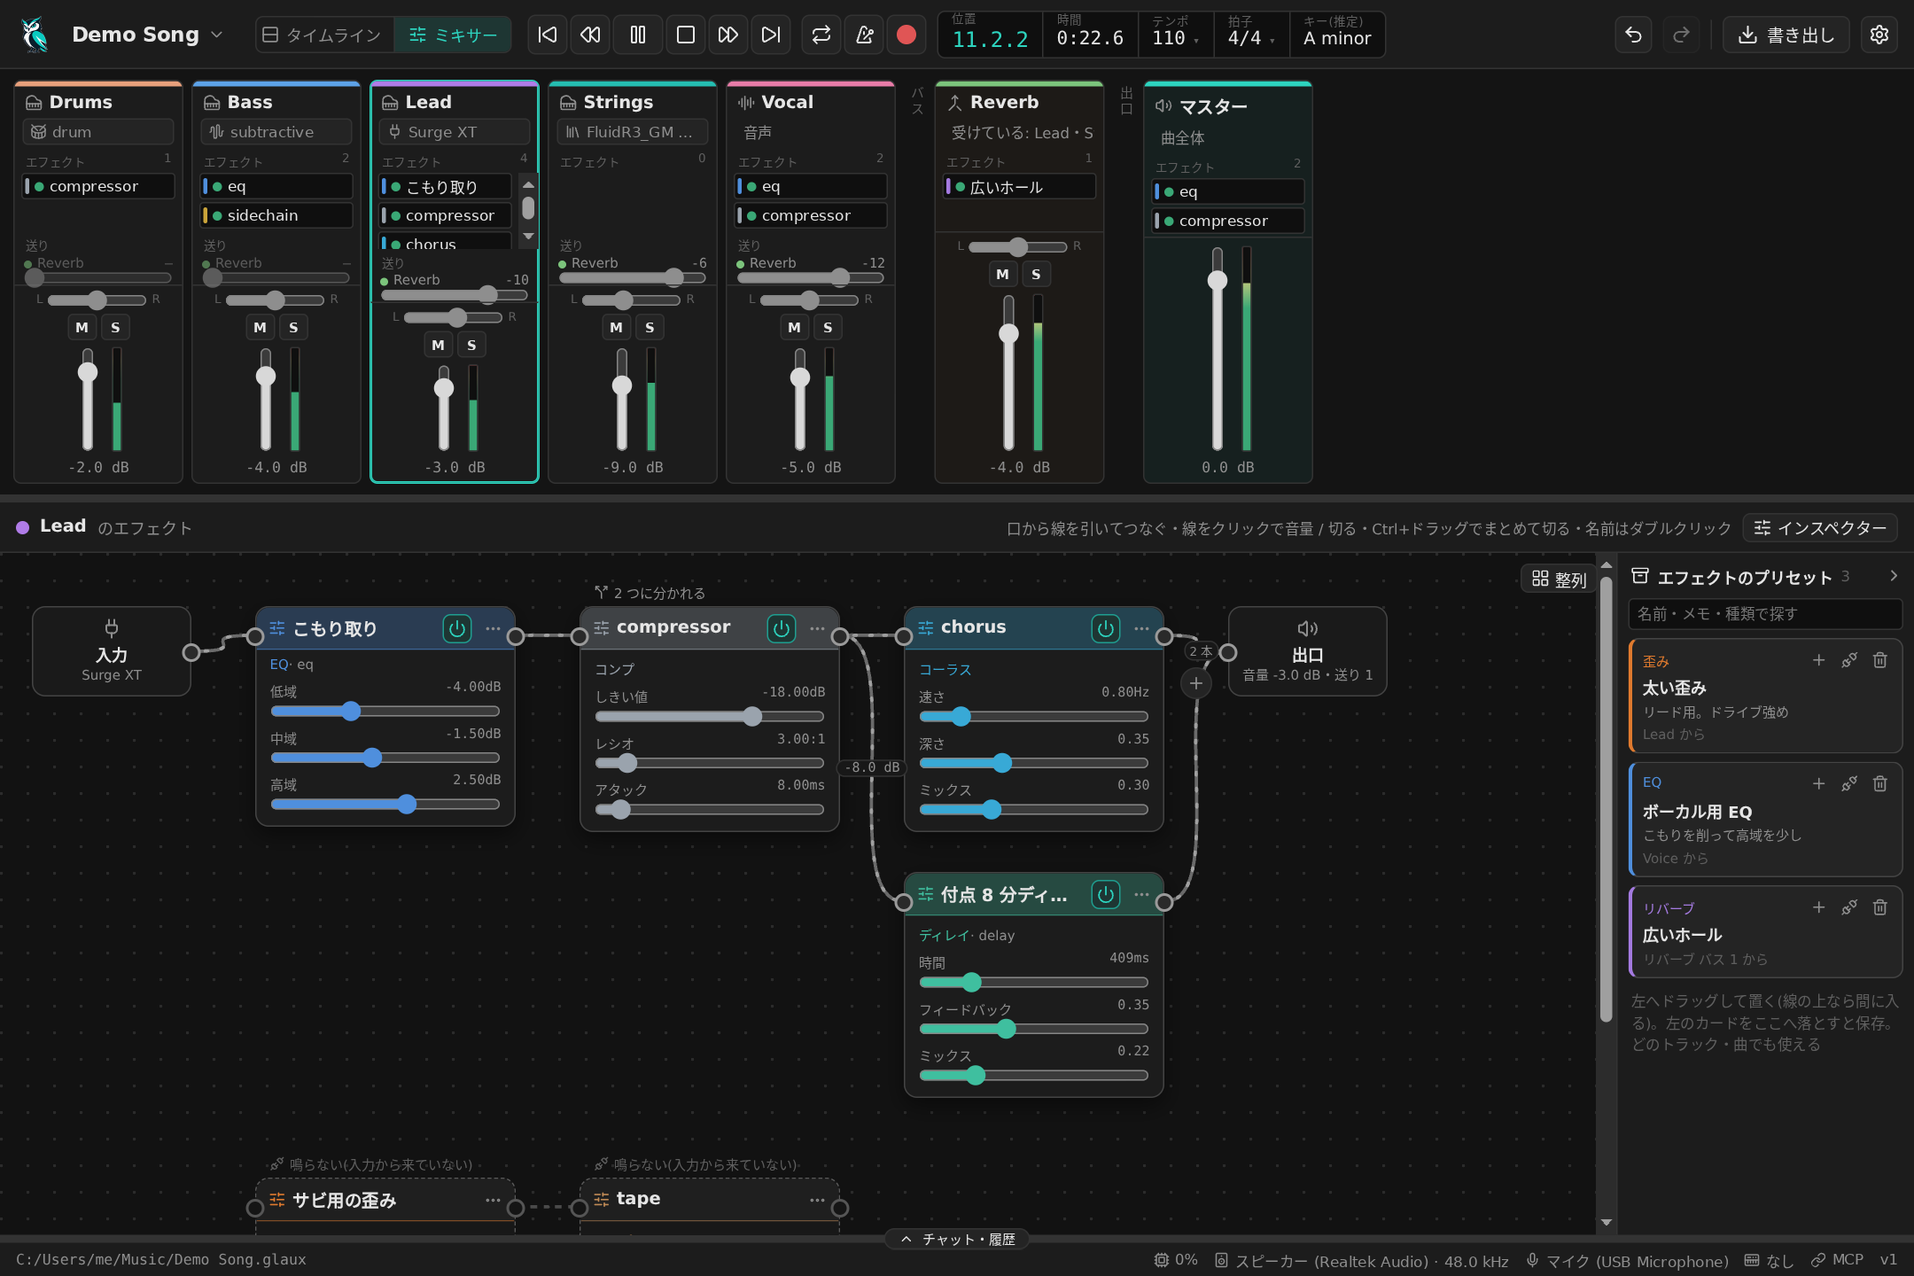
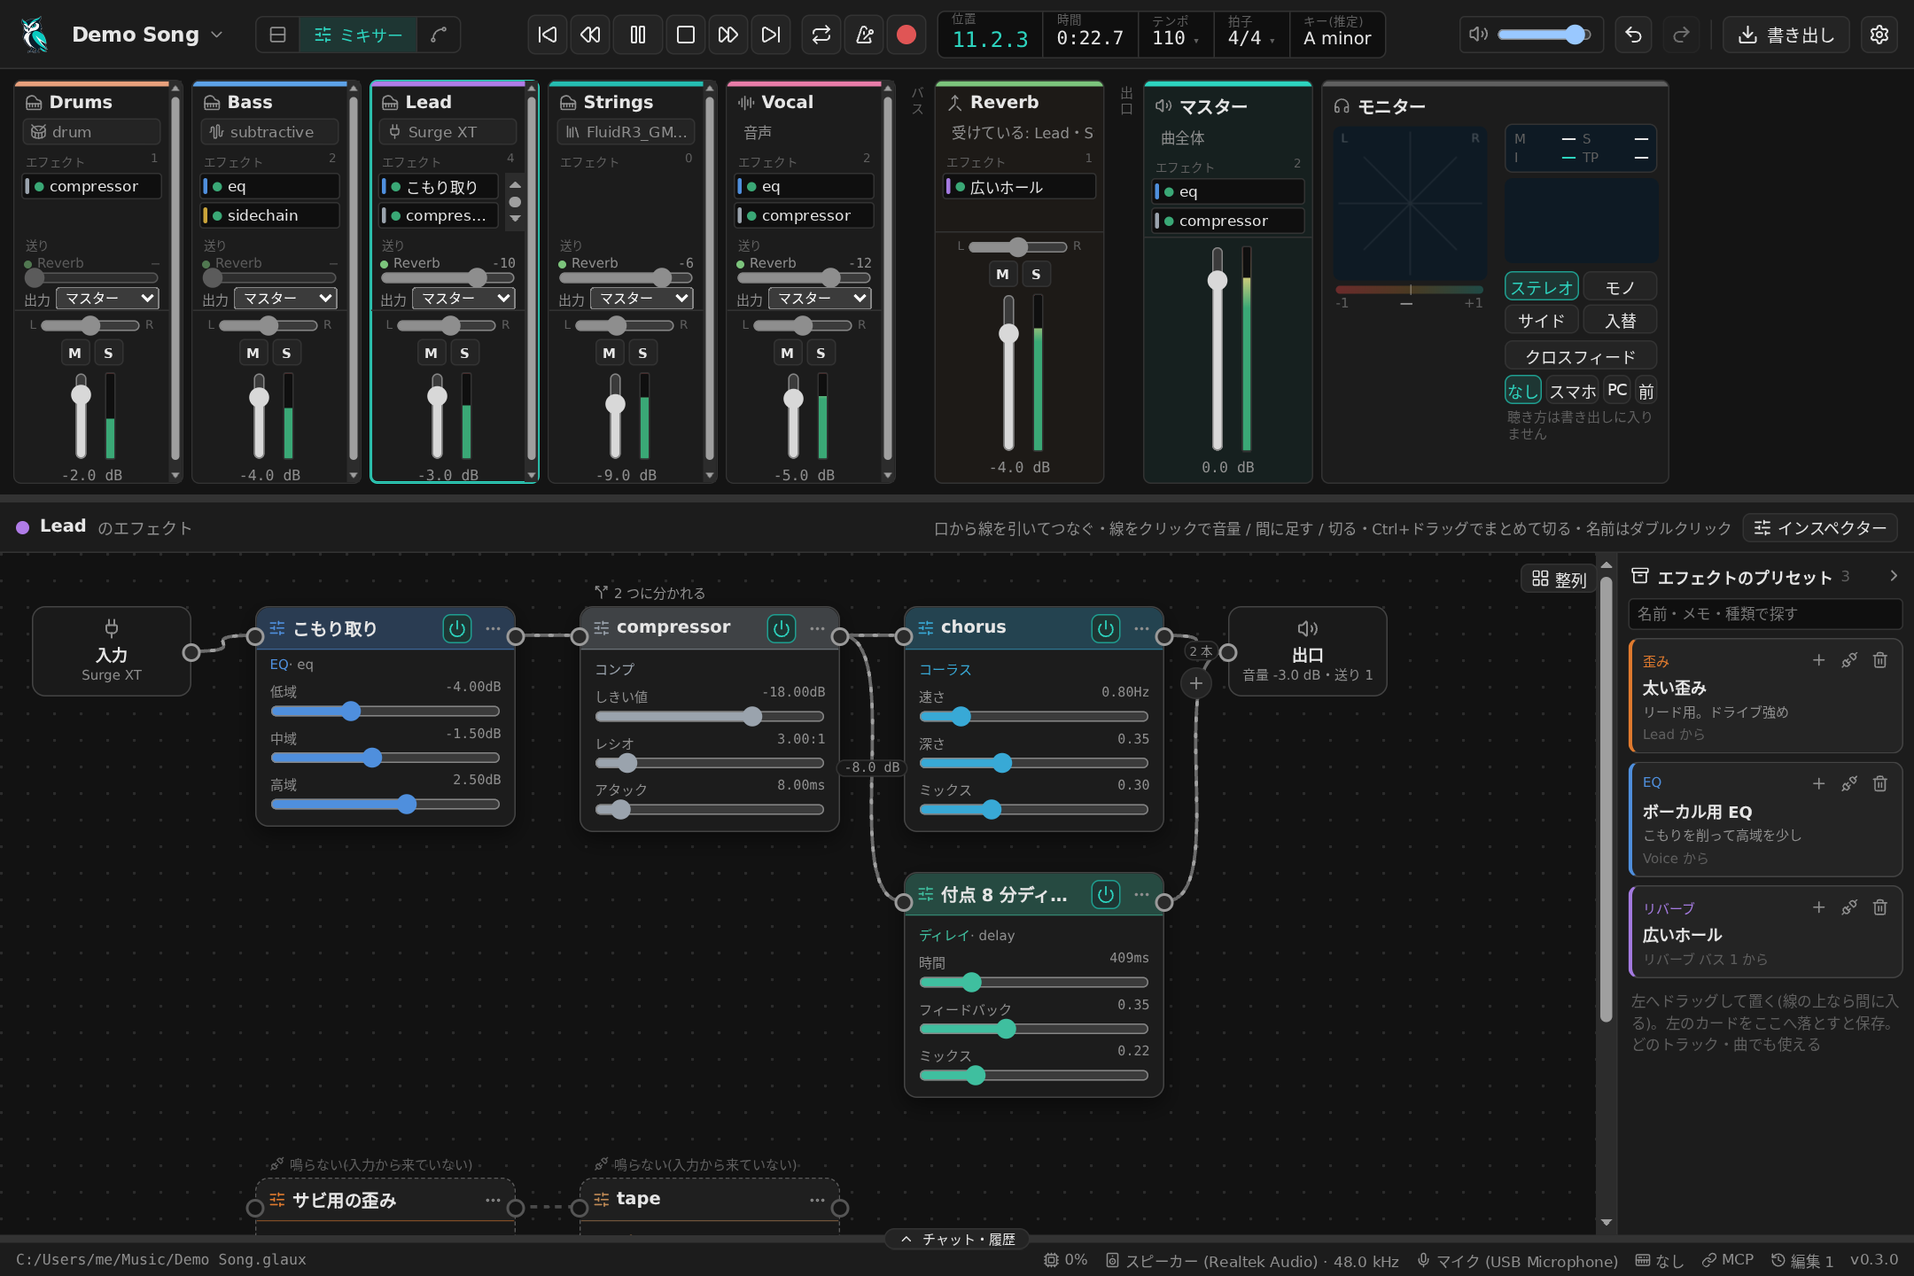
v0.3.0 に向けて README と文書を新しくし、設計画面の画像を載せる
- README(日本語・英語): 特徴に「曲の設計」「案を聴き比べて選ぶ」と編集の前後の聴き比べを足す。
  エフェクトの数を 32 種に直す(変調・スタジオ・音程のエフェクトが数に入っていなかった)。
  設計画面と、AI の案をまとめて聴き比べる画面の画像を足し、タイムラインとミキサーの画像を今の画面(画面の切り替えに「設計」)で撮り直す
- CAPABILITIES: 時点を 2026-10-04(v0.3.0)に。載っていなかった道具(insert_bars / delete_bars / duplicate_clips /
  get_changes / get_guide / import_ir)を足し、内蔵の音源の数を 10 種に、音程補正・ハモリはエフェクトであることに直す
- GETTING_STARTED: 設計画面(曲全体・盛り上がり・音域・役割)と案の聴き比べ・採用、編集の前後の聴き比べ、
  音の固定(K)、チャットの考える深さを書き足す
- TROUBLESHOOTING: 採用の取り消し、設計画面(当てられない案・違いが分からないとき)、VST3 の探し場所を書き足す
- チャットと作業中の表示に、get_design・propose_design の表示名を足す(道具の名前がそのまま出ていた)

diff --git a/app/src/lib/toolLabels.ts b/app/src/lib/toolLabels.ts
@@ -61,6 +61,8 @@ const LABELS: Record<string, ToolLabel> = {
   design_sound: { short: "言葉から音色", doing: "言葉から音色を作っています" },
   mutate_sound: { short: "音色の変種", doing: "音色の変種を作っています" },
   set_song_plan: { short: "曲の計画書", doing: "曲の計画を立てています" },
+  get_design: { short: "設計を確認", doing: "曲の設計(計画と実際)を読んでいます" },
+  propose_design: { short: "案を出す", doing: "案を出しています" },
   write_chords: { short: "コードの伴奏", doing: "コード進行から伴奏を書いています" },
   write_arpeggio: { short: "アルペジオ", doing: "アルペジオを書いています" },
   write_bassline: { short: "ベースライン", doing: "ベースラインを書いています" },

diff --git a/docs/GETTING_STARTED.md b/docs/GETTING_STARTED.md
@@ -27,7 +27,7 @@ Glaux をインストールしてから、1 曲作って書き出すまでの流
 | Claude(Claude Code) | `npm i -g @anthropic-ai/claude-code` → `claude` を一度起動してログイン |
 | GPT(Codex CLI) | `npm i -g @openai/codex` → `codex login` |
 
-入れた後は Glaux を起動し直します。相手とモデルは、チャット欄の左上で切り替えます。
+入れた後は Glaux を起動し直します。相手・モデル・考える深さは、チャット欄の上で切り替えます。
 AI が使えるのは Glaux のツールだけで、PC のファイルの読み書きやコマンドの実行はさせません。
 
 ## 3. 1 曲作る
@@ -59,6 +59,7 @@ AI は曲を直接編集し、タイムラインにすぐ反映されます。1 
 | トラックを足す | タイムラインの下の「トラックを追加」(MIDI・音声・バス・MIDI ファイル) |
 | クリップを作る | MIDI トラックの空いた所をダブルクリック(ピアノロールが開く) |
 | ノートを置く・消す | ピアノロールでクリック / 右クリック。Ctrl+A で全選択、↑↓ で移調、Q でクオンタイズ |
+| 音を固定する | ピアノロールで音を選んで K(もう一度で外す)。固定した音は、AI の作り直し・編集では変わりません |
 | 音色を変える | トラックの見出しの音源名 → 内蔵シンセ・ドラム・SoundFont・CLAP から選ぶ |
 | 音作り・エフェクト | トラックの見出しの「インスペクター」のボタン(右に開く)。ミキサーではエフェクトをノード表示でつなげる |
 | 横に拡大・縮小 | タイムラインの上で Ctrl+ホイール。ルーラー左の「全体」で曲全体を表示 |
@@ -66,10 +67,37 @@ AI は曲を直接編集し、タイムラインにすぐ反映されます。1 
 | 再生 | Space。←/→ で前後の小節、Home/End で先頭/終わり |
 | 取り消す | Ctrl+Z / Ctrl+Y。履歴の一覧から、途中の 1 件だけを打ち消すこともできます |
 
+### 曲を設計する・案を聴き比べる
+
+左上の画面の切り替え(タイムライン・ミキサー・設計)で「設計」を開くと、曲の計画と今の曲の実際を並べて見られます。
+
+| 欄 | 見られること・直せること |
+|---|---|
+| 曲全体 | ジャンル・雰囲気・キー・盛り上がりの型・守ること。項目をその場で直せます |
+| 盛り上がり | 区間ごとの盛り上がりの曲線(計画)と、今の曲から測った値(点線)。点を動かす・区間ごとの平行移動・境目(つなぐ / 段差) |
+| パートごとの音域 | パートごとの計画の音域の帯と、実際に鳴っている音域。帯を動かす・広げる、「実際を計画に」 |
+| パートの役割 | パート × 区間の表(主役・前面・支え・背景・気配・鳴らさない の 6 段階)。マスを選んで数字キー、ドラッグで塗る |
+
+計画が無い曲は、AI に「曲全体とパートの計画を作って」と頼むと作られます(今の音から推定した計画は、確かめてから採用します)。
+計画と実際のずれは右の欄に出て、AI は作る・直すときにそれを読みます。所を選んでから「この所について AI に頼む」で、
+その所を対象にして頼めます。計画の変更は、下の欄の「計画の履歴」に理由と一緒に残ります。
+
+好みが分かれる直し(「Drop 2 をもっと厚くする案を 3 つ出して」など)は、AI が曲を変えずに **案** として出し、
+設計画面の上に並びます。
+
+- 「聴き比べる」で、今(A)と案(B)を同じ範囲で繰り返し鳴らし、同じ位置のまま切り替えられます(音量はそろえてあります)
+- 案が 2 つ以上あれば「まとめて聴き比べる」で、今と案(4 つまで)を A・B・C … で切り替えられます
+- 「変わる所」の区間を押すと、その区間で聴き比べます
+- 「採用」で案の音が曲に当たり、案の計画が今の計画になります。同じ頼みから出たほかの案は一緒に片付きます。
+  採用は、どの画面の Ctrl+Z でも計画ごと 1 回で戻せます
+
 ### 聴き比べる・整える
 
-左上の「ミキサー」に切り替えると、全トラックの音量・パン・送りとメーターを見渡せます。右端のモニター列では、
+「ミキサー」に切り替えると、全トラックの音量・パン・送りとメーターを見渡せます。右端のモニター列では、
 モノラルやスマホ・ノート PC のスピーカーの聞こえ方に切り替えて確かめられます(書き出しには入りません)。
+
+履歴の各編集のヘッドホンのボタンで、その編集の前(A)と今(B)を、音量をそろえて聴き比べられます
+(ループ中ならその区間、範囲を選んでいればそこ、無ければ今の位置から 8 小節。再生位置はそのままで切り替わります)。
 
 ## 4. 書き出す
 

diff --git a/README.md b/README.md
@@ -15,13 +15,22 @@
 
 ## 特徴
 
-- **AI と共同作曲** — 相手は Claude(Claude Code)か GPT(Codex CLI)。人間と AI の編集は同じ履歴に残り、AI の 1 ターン分をまとめて取り消せます
+- **AI と共同作曲** — 相手は Claude(Claude Code)か GPT(Codex CLI)。人間と AI の編集は同じ履歴に残り、AI の 1 ターン分をまとめて取り消せます。
+  履歴の各編集は、その前と今を音量をそろえて聴き比べられます
 - **AI の「耳」** — 音量・帯域・キーとコード・リズム・音色を AI 自身が測り、確かめてから報告します
-- **音源とエフェクト** — 内蔵シンセ 10 種(シンセ・FM・4 オペレーター FM・ウェーブテーブル・加算合成・グラニュラー・ドラム・撥弦・サンプラー・SoundFont / SFZ)、エフェクト 17 種(EQ・ダイナミック EQ・共鳴抑制・仮想低音・コンプ・マルチバンドコンプ・トランジェントシェイパー・リミッタ・ステレオの幅・リバーブ・畳み込みリバーブ・アンプなど)、CLAP / VST3 プラグイン(Surge XT など)
+- **曲の設計** — 曲全体の計画(ジャンル・雰囲気・盛り上がりの波)と、区間ごとの盛り上がり・パートの音域・パートの役割を、
+  今の曲の実測と並べて見て、その場で直せます。AI は計画と実際のずれを読んで作り・直し、固定した音や手で直した所は残します
+- **案を聴き比べて選ぶ** — 好みが分かれる直しは、AI が曲を変えずに「案」として出します。今と案(4 つまで)を音量をそろえ、
+  同じ位置のまま切り替えて聴き、気に入った案を採用します。採用はどの画面からでも 1 回で取り消せます
+- **音源とエフェクト** — 内蔵シンセ 10 種(シンセ・FM・4 オペレーター FM・ウェーブテーブル・加算合成・グラニュラー・ドラム・撥弦・サンプラー・SoundFont / SFZ)、エフェクト 32 種(EQ・8 バンド EQ・ダイナミック EQ・共鳴抑制・仮想低音・コンプ・マルチバンドコンプ・トランジェントシェイパー・リミッタ・クリッパー・ゲート・ディエッサー・サチュレーション・ステレオの幅・リバーブ・畳み込みリバーブ・ディレイ・コーラス・フェイザー・トランスゲート・ピッチ補正・ハーモナイザー・アンプなど)、CLAP / VST3 プラグイン(Surge XT など)
 - **ミキサーとエフェクトのノード表示** — 全トラックを縦の列で並べて音量・パン・送り・メーターを見渡せます。エフェクトはカードを自由に置いて線でつなぎ、分けて混ぜる(原音 + リバーブなど)こともできます。つながっていないカードは鳴らずに取っておけ、よくできた設定は「エフェクトのプリセット」として別の曲でも使えます。右端のモニター列では、左右の広がり(ゴニオメーター・相関)を見て、モノ・サイド・左右入れ替え・ヘッドホン向けのクロスフィードに切り替えて聴けます(書き出しには入りません)
 - **打ち込みと録音** — ピアノロール、ドラムキット、フレット盤、MIDI キーボード、MIDI ファイルの読み書き、録音、鼻歌の譜起こし、パート分離、テンポ追従
 - **AI にやさしい設計** — プロジェクトは読める JSON。すべての編集が同じコマンドを通り、完全に undo できます。MCP サーバーを内蔵
 - **ゲームで鳴らす** — Godot 4 の拡張で、曲をゲームの中で鳴らし、敵の動きや判定を拍に同期できます
+
+![設計画面: 曲全体と区間ごとの計画(盛り上がり・パートの音域・役割)を、今の曲の実測と並べて見る](docs/images/screenshot-design.png)
+
+![AI の案を、今の曲と音量をそろえて切り替えながら聴き比べる](docs/images/screenshot-proposals.png)
 
 ![ミキサーとエフェクトのノード表示](docs/images/screenshot-mixer.png)
 

diff --git a/README.en.md b/README.en.md
@@ -15,13 +15,22 @@ Ask in the chat — "write a 4-bar bassline", "make only the chorus bigger" — 
 
 ## Features
 
-- **Compose with AI** — Work with Claude (Claude Code) or GPT (Codex CLI). Human and AI edits share one history, and you can undo an AI's whole turn at once
+- **Compose with AI** — Work with Claude (Claude Code) or GPT (Codex CLI). Human and AI edits share one history, and you can undo an AI's whole turn at once.
+  For any edit in the history, you can compare before and now at matched loudness
 - **The AI can listen** — It measures loudness, frequency balance, key and chords, rhythm and timbre by itself, and checks its work before reporting
-- **Instruments and effects** — 10 built-in instruments (subtractive, FM, 4-operator FM, wavetable, additive, granular, drums, plucked string, sampler, SoundFont / SFZ), 17 effects (EQ, dynamic EQ, resonance suppressor, virtual bass, compressor, multiband compressor, transient shaper, limiter, stereo width, reverb, convolution reverb, amp, and more), and CLAP / VST3 plugins (e.g. Surge XT)
+- **Song design** — See the plan for the whole song (genre, mood, the shape of the energy) and, per section, the energy curve, each part's register and each part's role,
+  side by side with what the song actually does, and edit them in place. The AI reads where the song drifts from the plan when it writes and revises, and keeps the notes you locked and the bars you edited by hand
+- **Compare proposals by ear** — For changes that come down to taste, the AI leaves the song untouched and offers "proposals". Switch between the current song and up to four proposals
+  at matched loudness without losing your place, then adopt the one you like. An adoption can be undone in one step from any screen
+- **Instruments and effects** — 10 built-in instruments (subtractive, FM, 4-operator FM, wavetable, additive, granular, drums, plucked string, sampler, SoundFont / SFZ), 32 effects (EQ, 8-band EQ, dynamic EQ, resonance suppressor, virtual bass, compressor, multiband compressor, transient shaper, limiter, clipper, gate, de-esser, saturation, stereo width, reverb, convolution reverb, delay, chorus, phaser, trance gate, pitch correction, harmonizer, amp, and more), and CLAP / VST3 plugins (e.g. Surge XT)
 - **Mixer and effect node view** — See every track as a vertical strip with volume, pan, sends and meters. Effects are cards you place freely and connect with cables, including splitting and merging (e.g. dry + reverb in parallel). Unconnected cards stay silent but keep their settings, and good settings can be saved as effect presets for other songs. The monitor strip on the right shows the stereo image (goniometer and correlation) and lets you listen in mono, side only, swapped, or with headphone crossfeed (never included in exports)
 - **Write and record** — Piano roll, drum kit, fretboard, MIDI keyboard, MIDI file import/export, audio recording, humming-to-MIDI, stem separation, tempo-following audio clips
 - **Designed for AI** — Projects are readable JSON. Every edit goes through the same command API with full undo. Built-in MCP server
 - **Play it in games** — A Godot 4 extension plays your songs in-game and syncs enemies or hit judgement to the beat
+
+![The design view: the plan for the whole song and for each section (energy, each part's register and role) next to what the song actually does](docs/images/screenshot-design.png)
+
+![Switching between the current song and the AI's proposals at matched loudness](docs/images/screenshot-proposals.png)
 
 ![The mixer and the effect node view](docs/images/screenshot-mixer.png)
 

diff --git a/docs/TROUBLESHOOTING.md b/docs/TROUBLESHOOTING.md
@@ -49,6 +49,21 @@ CLI が入っていないか、PATH が通っていません。
 チャットの「このターンを取り消す」で、その指示で AI がした編集をまとめて打ち消せます(後から人が直した所は残ります)。
 1 件ずつなら Ctrl+Z、または履歴の一覧から選んで打ち消します。
 
+設計画面で採用した案は、どの画面の Ctrl+Z でも、曲と計画がそろって 1 回で戻ります(一緒に片付いたほかの案も戻ります)。
+計画の履歴で「曲の編集と一組」と出ている項目は、計画の側だけでは取り消せません。曲の側(Ctrl+Z や曲の履歴)で戻してください。
+
+## 設計画面
+
+### 案に「当てられません」と出る
+
+案を出した後に、案が触る所(トラックの音色・クリップ・エフェクトなど)を直すと、その案は採用も聴き比べもできなくなります
+(直した所を案で上書きしないため)。AI に「案を作り直して」と頼んでください。
+
+### 聴き比べても違いが分からない
+
+聴いている範囲で、案の音が今と同じことがあります(たとえば Drop だけで鳴る音色を変える案を、Intro で聴いている)。
+案の「変わる所」の区間を押すと、その区間で聴き比べられます。範囲の中で今と同じ音の案は、画面に知らせが出ます。
+
 ## SoundFont
 
 - はじめの確認の「GM 音源を取得」か「手持ちの .sf2 を追加」で入れます。入れた .sf2 はライブラリのフォルダ
@@ -68,10 +83,11 @@ CLI が入っていないか、PATH が通っていません。
 編集はメモリ上には残っています。曲のフォルダがあるドライブの空き・書き込みの権限を確かめてください
 (ネットワークドライブ・同期フォルダの一時的なロックでも起きます)。次の保存が成功すると表示は消えます。
 
-## CLAP プラグイン
+## CLAP・VST3 プラグイン
 
-- 探す場所は CLAP の標準のフォルダ(Windows: `C:\Program Files\Common Files\CLAP` と
-  `%LOCALAPPDATA%\Programs\Common\CLAP`)と、環境変数 `CLAP_PATH` です。入れた後は Glaux を起動し直します
+- 探す場所は、CLAP の標準のフォルダ(Windows: `C:\Program Files\Common Files\CLAP` と
+  `%LOCALAPPDATA%\Programs\Common\CLAP`)と環境変数 `CLAP_PATH`、VST3 の標準のフォルダ
+  (`C:\Program Files\Common Files\VST3` と `%LOCALAPPDATA%\Programs\Common\VST3`)です。入れた後は Glaux を起動し直します
 - プラグインの画面は、インスペクターの「プラグインの画面」(エフェクトはカードのボタン)から開きます
 - ゲーム(Godot)ではプラグインは鳴りません。そのトラックを「音声にする(フリーズ)」してください
 
